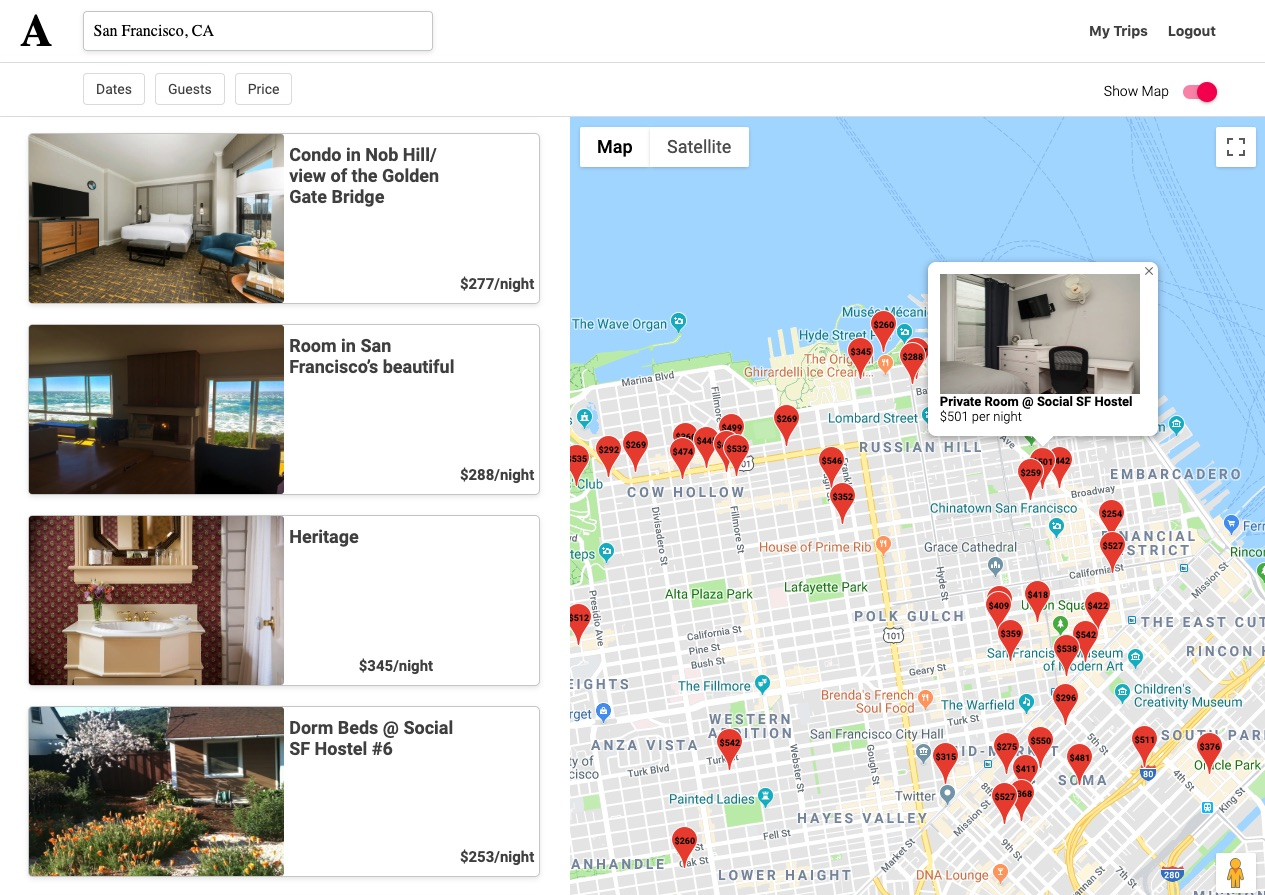
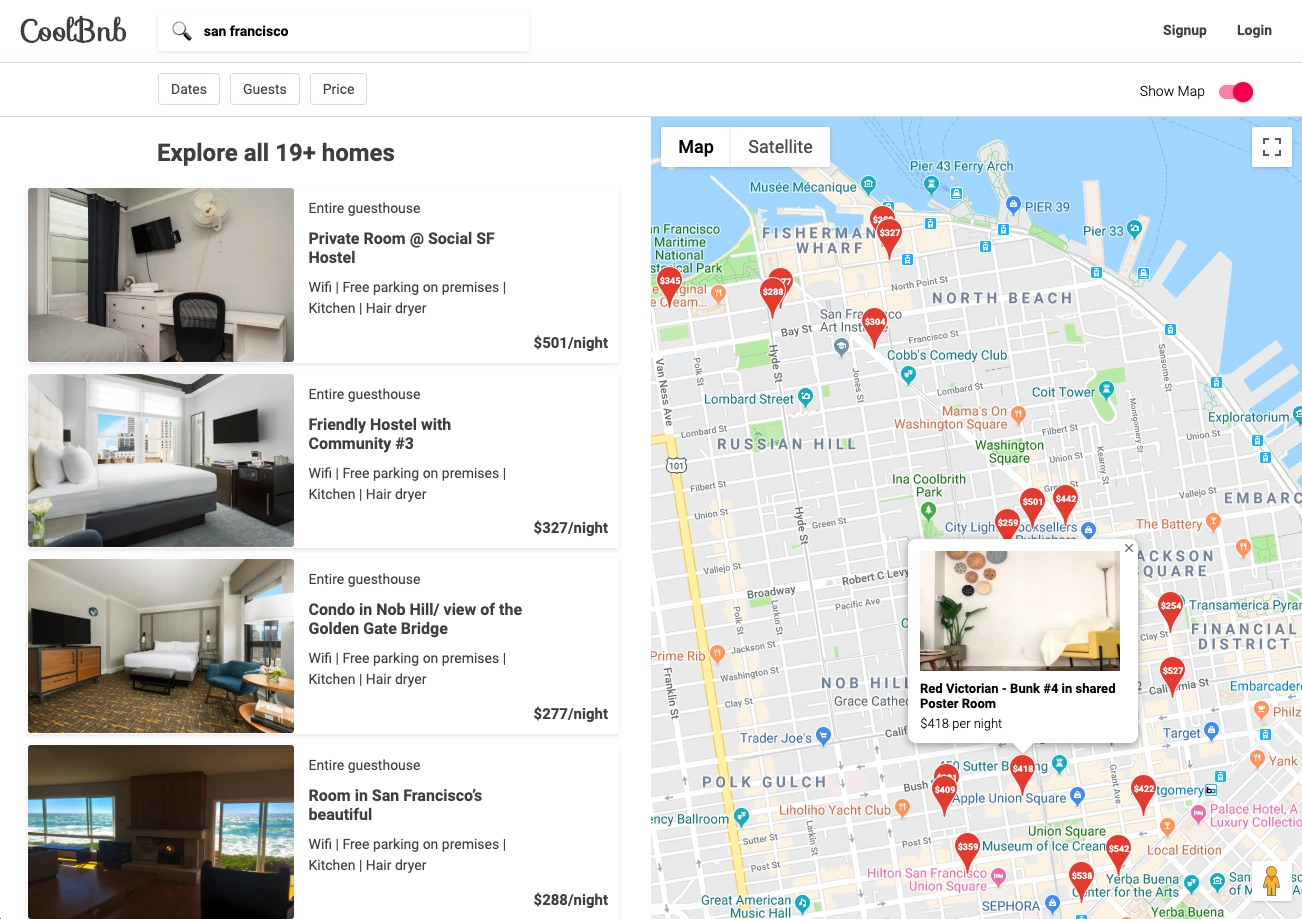
replace aetherbnb by coolbnb

diff --git a/index.html b/index.html
@@ -270,11 +270,11 @@
         </div>
 
         <div class="col-lg-6 col-lg-offset-3">
-          <p><a href="https://aetherbnb.herokuapp.com" target="_blank"><img class="img-responsive" src="img/port02.jpg" alt=""></a></p>
+          <p><a href="https://coolbnb.herokuapp.com" target="_blank"><img class="img-responsive" src="img/port02.jpg" alt=""></a></p>
         </div>
         <div class="col-lg-3">
-          <h3><a href="https://aetherbnb.herokuapp.com" target="_blank">AetherBnb</a></h3>
-          <p><a href="https://github.com/valery-nguyen/AetherBnb" target="_blank">repository</a></p>
+          <h3><a href="https://coolbnb.herokuapp.com" target="_blank">CoolBnb</a></h3>
+          <p><a href="https://github.com/valery-nguyen/coolbnb" target="_blank">repository</a></p>
           <p>
             <more>Service Web App giving users the possibility to search and book lodging, filtered by location, dates, type, and price.<br/><br/>
               <sm><i class="icon-tag"></i> MongoDB, Express, React & Redux, Node</sm>
